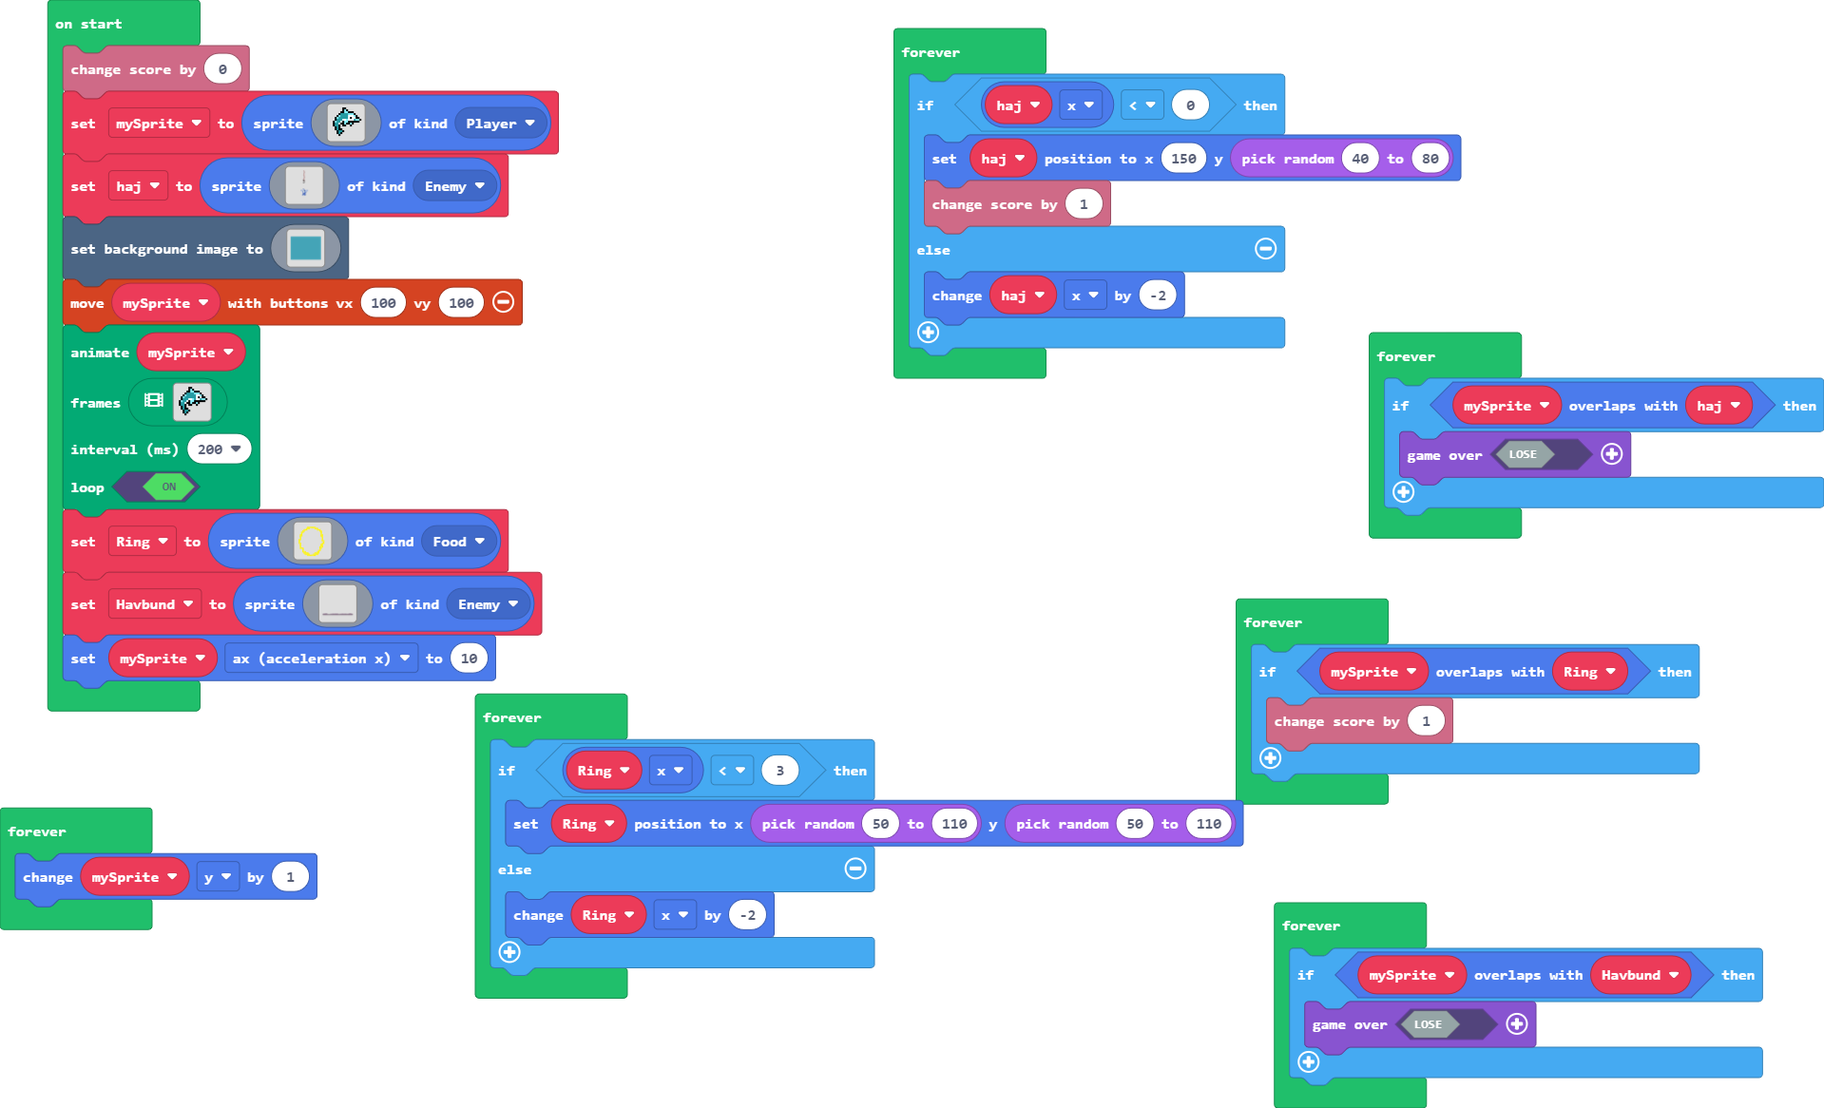
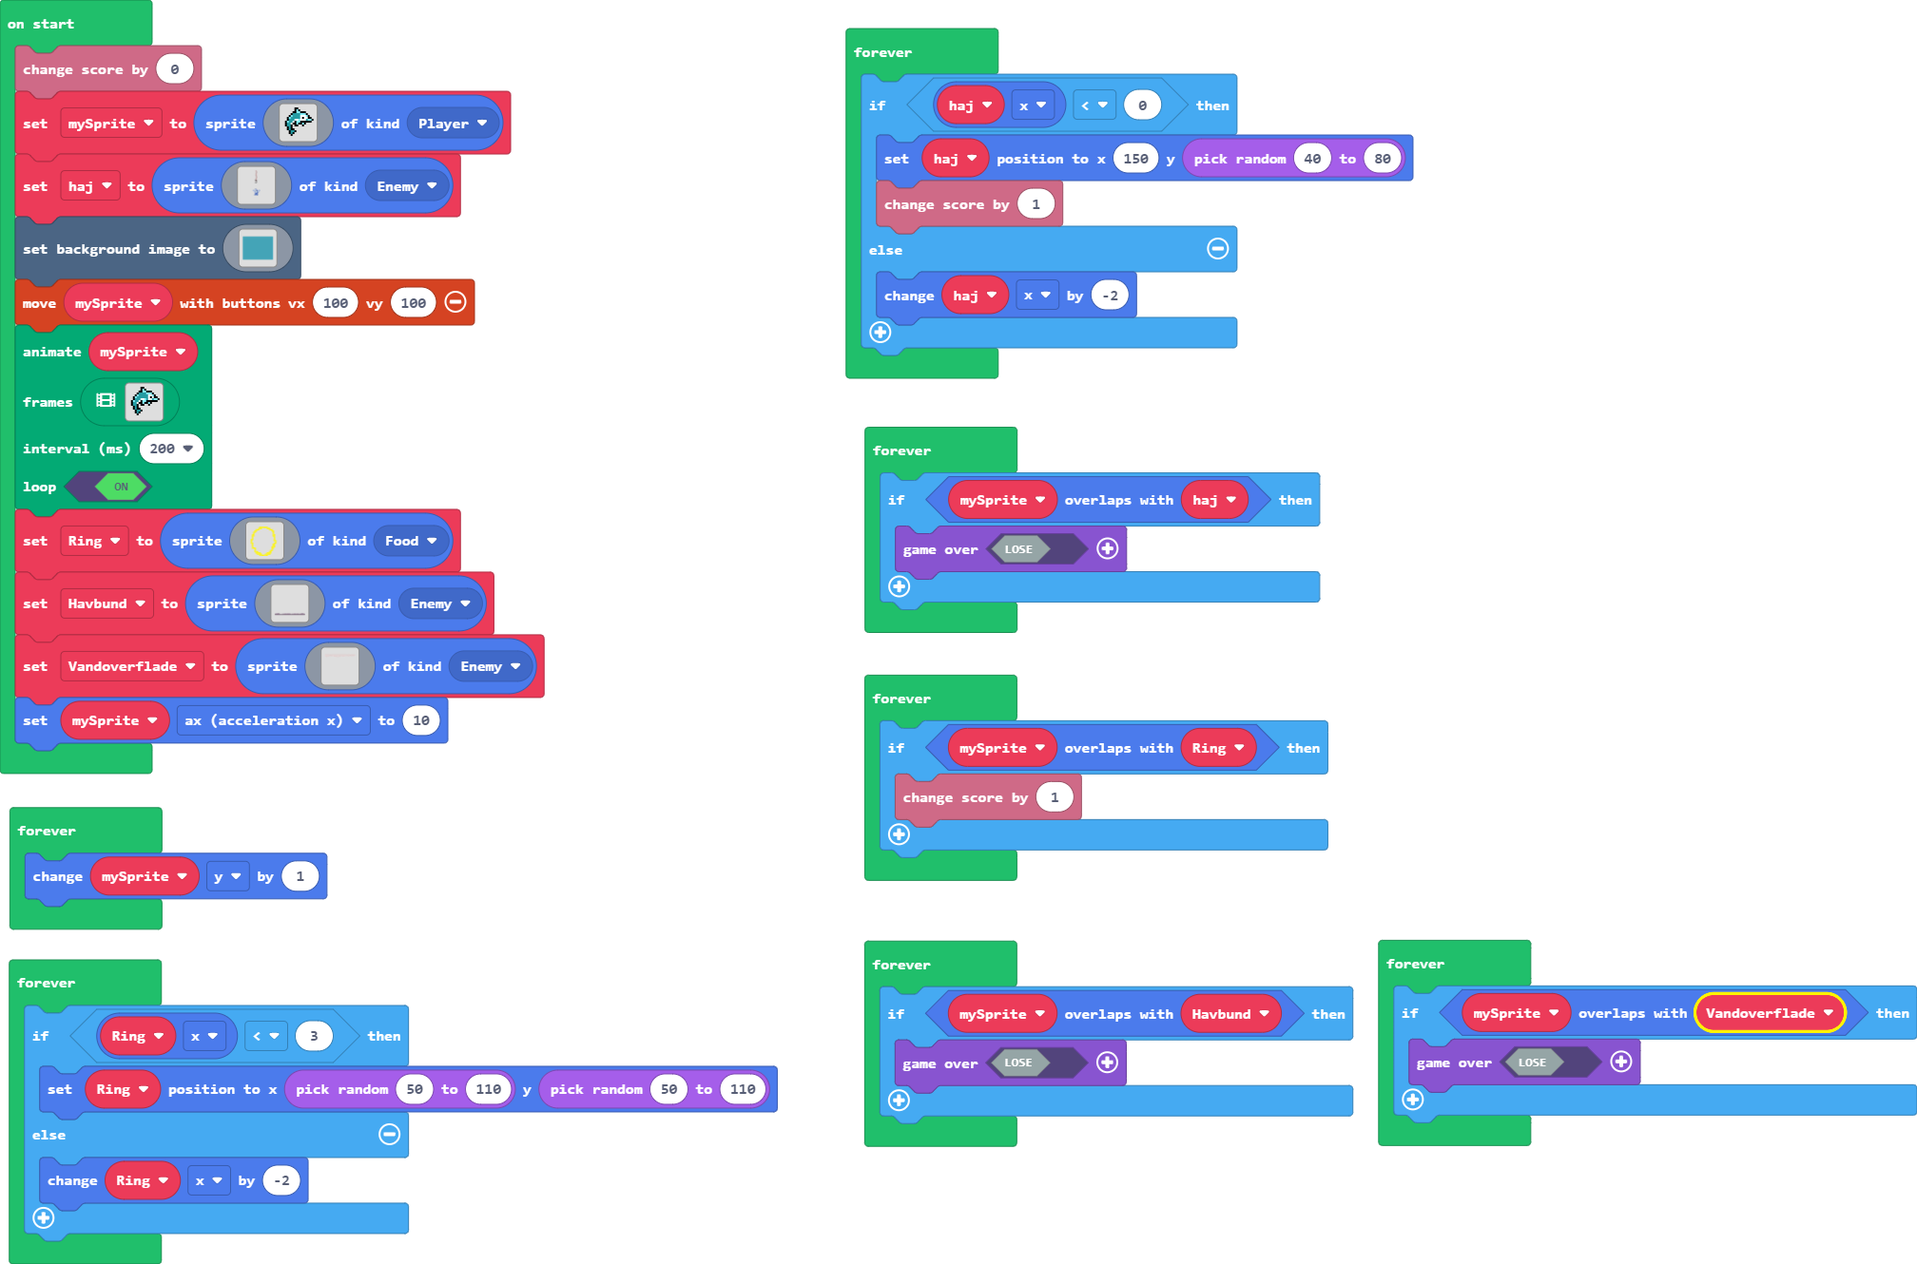
Update main.blocks, main.ts

diff --git a/main.ts b/main.ts
@@ -158,6 +158,128 @@ let Havbund = sprites.create(img`
     cccccccccccccccccccccccccccccccccccccccccccccccccccccccccccccccccccccccccccccccccccccccccccccccccccccccccccccccccccccccccccccccccccccccccccccccccccccccccccccccc
     cccccccccccccccccccccccccccccccccccccccccccccccccccccccccccccccccccccccccccccccccccccccccccccccccccccccccccccccccccccccccccccccccccccccccccccccccccccccccccccccc
     `, SpriteKind.Enemy)
+let Vandoverflade = sprites.create(img`
+    ddddddddddddddddddddddddddddddddddddddddddddddddddddddddddddddddddddddddddddddddddddddddddddddddddddddddddddddddddddddddddddddddd..ddddddddddddddddddddddddddddd
+    dddddddddddddddddddddddddddddddddddddddddddddddddddddddddddddddddddddddddddddddddddddddddddddddddddddddddddddddddddddddddddddddddddddddddddddddddddddddddddddddd
+    dddddddddddddddddddddddddddddddddddddddddddddddddddddddddddddddddddddddddddddddddddddddddddddddddddddddddddddddddddddddddddddddddddddddddddddddddddddddddddddddd
+    dddddddddddddddddddddddddddddddddddddddddddddddddddddddddddddddddddddddddddddddddddddddddddddddddddddddddddddddddddddddddddddddddddddddddddddddddddddddddddddddd
+    dddddddddddddddddddddddddddddddddddddddddddddddddddddddddddddddddddddddddddddddddddddddddddddddddddddddddddddddddddddddddddddddddddddddddddddddddddddddddddddddd
+    ...dddddddddddddddddddddddddddddddddddddddddddddddddddddddddddddddddddddddddddddddddddddddddddddddddddddddddddddddddddddddddddddddddddd.......dddddddddddddd....
+    ...dddddddddddddddddddd.............dddddddddddddddddddddddddddddddddddddddddddddd....dddddddddddddddddddddddddddd.......dddddddddd.............................
+    ...ddddddddddddddddd....................ddddddddddddddddddddddddddddddddddddddddd........ddddddddddddddddddddd..................................................
+    ....dddddddddddddd..........................dddddddddddddddddddddddddddddddddddd.............ddddddddd..........................................................
+    ......dddddddddd............................................dddddddddddddddd....................................................................................
+    ................................................................................................................................................................
+    ................................................................................................................................................................
+    ................................................................................................................................................................
+    ................................................................................................................................................................
+    ................................................................................................................................................................
+    ................................................................................................................................................................
+    ................................................................................................................................................................
+    ................................................................................................................................................................
+    ................................................................................................................................................................
+    ................................................................................................................................................................
+    ................................................................................................................................................................
+    ................................................................................................................................................................
+    ................................................................................................................................................................
+    ................................................................................................................................................................
+    ................................................................................................................................................................
+    ................................................................................................................................................................
+    ................................................................................................................................................................
+    ................................................................................................................................................................
+    ................................................................................................................................................................
+    ................................................................................................................................................................
+    ................................................................................................................................................................
+    ................................................................................................................................................................
+    ................................................................................................................................................................
+    ................................................................................................................................................................
+    ................................................................................................................................................................
+    ................................................................................................................................................................
+    ................................................................................................................................................................
+    ................................................................................................................................................................
+    ................................................................................................................................................................
+    ................................................................................................................................................................
+    ................................................................................................................................................................
+    ................................................................................................................................................................
+    ................................................................................................................................................................
+    ................................................................................................................................................................
+    ................................................................................................................................................................
+    ................................................................................................................................................................
+    ................................................................................................................................................................
+    ................................................................................................................................................................
+    ................................................................................................................................................................
+    ................................................................................................................................................................
+    ................................................................................................................................................................
+    ................................................................................................................................................................
+    ................................................................................................................................................................
+    ................................................................................................................................................................
+    ................................................................................................................................................................
+    ................................................................................................................................................................
+    ................................................................................................................................................................
+    ................................................................................................................................................................
+    ................................................................................................................................................................
+    ................................................................................................................................................................
+    ................................................................................................................................................................
+    ................................................................................................................................................................
+    ................................................................................................................................................................
+    ................................................................................................................................................................
+    ................................................................................................................................................................
+    ................................................................................................................................................................
+    ................................................................................................................................................................
+    ................................................................................................................................................................
+    ................................................................................................................................................................
+    ................................................................................................................................................................
+    ................................................................................................................................................................
+    ................................................................................................................................................................
+    ................................................................................................................................................................
+    ................................................................................................................................................................
+    ................................................................................................................................................................
+    ................................................................................................................................................................
+    ................................................................................................................................................................
+    ................................................................................................................................................................
+    ................................................................................................................................................................
+    ................................................................................................................................................................
+    ................................................................................................................................................................
+    ................................................................................................................................................................
+    ................................................................................................................................................................
+    ................................................................................................................................................................
+    ................................................................................................................................................................
+    ................................................................................................................................................................
+    ................................................................................................................................................................
+    ................................................................................................................................................................
+    ................................................................................................................................................................
+    ................................................................................................................................................................
+    ................................................................................................................................................................
+    ................................................................................................................................................................
+    ................................................................................................................................................................
+    ................................................................................................................................................................
+    ................................................................................................................................................................
+    ................................................................................................................................................................
+    ................................................................................................................................................................
+    ................................................................................................................................................................
+    ................................................................................................................................................................
+    ................................................................................................................................................................
+    ................................................................................................................................................................
+    ................................................................................................................................................................
+    ................................................................................................................................................................
+    ................................................................................................................................................................
+    ................................................................................................................................................................
+    ................................................................................................................................................................
+    ................................................................................................................................................................
+    ................................................................................................................................................................
+    ................................................................................................................................................................
+    ................................................................................................................................................................
+    ................................................................................................................................................................
+    ................................................................................................................................................................
+    ................................................................................................................................................................
+    ................................................................................................................................................................
+    ................................................................................................................................................................
+    ................................................................................................................................................................
+    ................................................................................................................................................................
+    ................................................................................................................................................................
+    ................................................................................................................................................................
+    ................................................................................................................................................................
+    `, SpriteKind.Enemy)
 mySprite.ax = 10
 forever(function () {
     if (haj.x < 0) {
@@ -178,6 +300,9 @@ forever(function () {
     }
 })
 forever(function () {
+    mySprite.y += 1
+})
+forever(function () {
     if (Ring.x < 3) {
         Ring.setPosition(randint(50, 110), randint(50, 110))
     } else {
@@ -185,10 +310,12 @@ forever(function () {
     }
 })
 forever(function () {
-    mySprite.y += 1
+    if (mySprite.overlapsWith(Havbund)) {
+        game.over(false)
+    }
 })
 forever(function () {
-    if (mySprite.overlapsWith(Havbund)) {
+    if (mySprite.overlapsWith(Vandoverflade)) {
         game.over(false)
     }
 })
